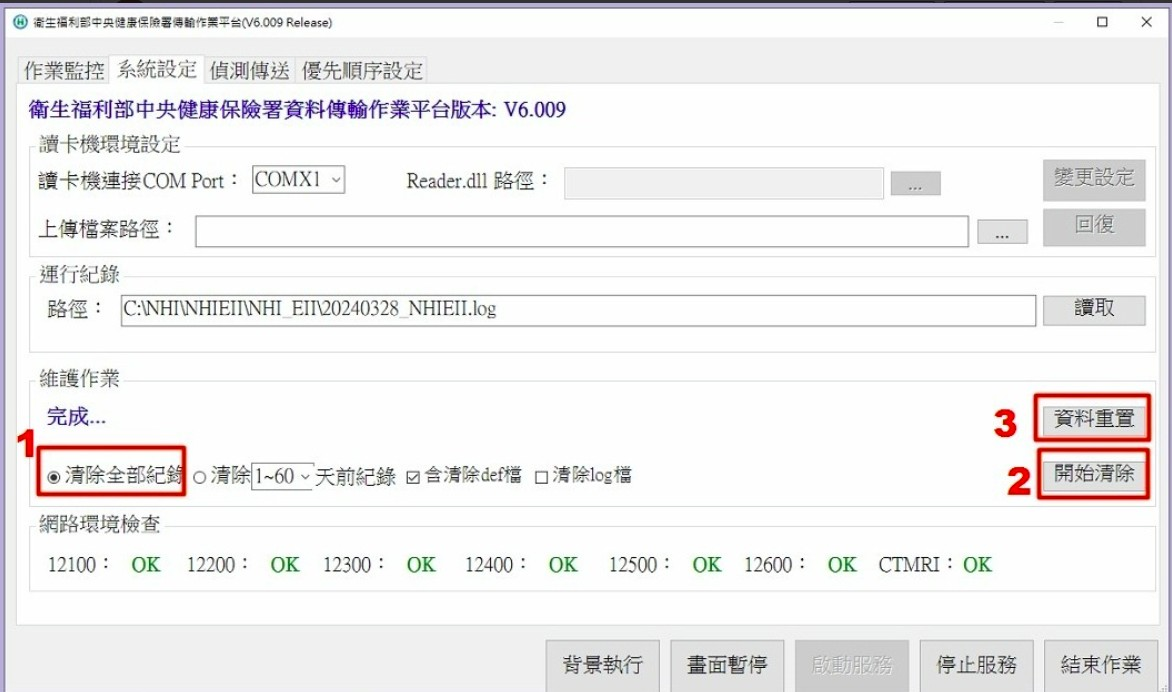
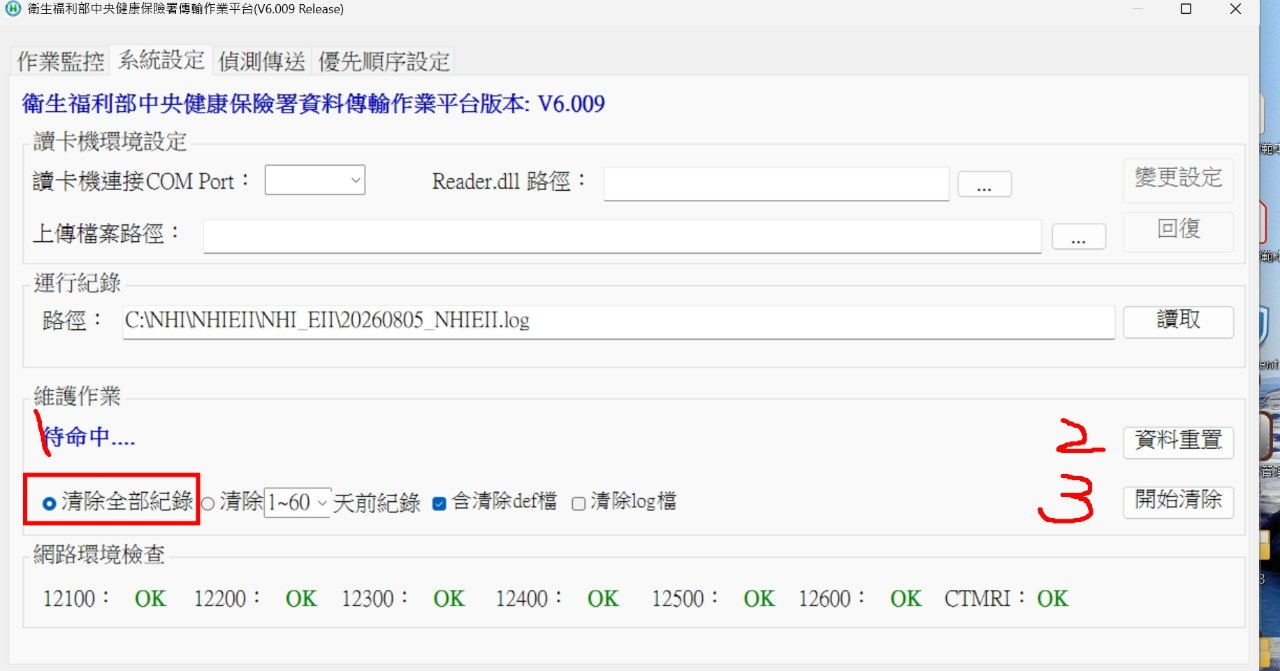
更新共同傳輸平台清除操作圖與重開步驟

diff --git a/faq.js b/faq.js
@@ -74,7 +74,7 @@ const FAQS=[
 {id:'vpn-queue',group:'nhi',title:'申報、抽審上傳後 VPN 一直查不到結果',tags:'申報 抽審 上傳 查不到 排隊 很久',text:'健保署有時資料量太大會排隊處理。請不要重傳，等 3～4 小時以上再去查詢結果。',doc:'nhi-review'},
 {"id":"e300","group":"nhi","title":"申覆出現 E300","tags":"e300 申覆 費用年月 申報日期 申覆 申複 申復","text":"【費用年月】或【申報日期】填錯了，確認後重新上傳。例如 11503 的費用，申報上傳日期應該是 11504XX。","doc":"nhi-appeal"},
 {"id":"e465","group":"nhi","title":"上傳出現 E465","tags":"e465 上傳 附件 桌面 資料夾 申覆上傳顯示壓縮檔或檢核錯誤怎麼辦？ 申覆上傳顯示壓縮檔或檢核錯誤怎麼辦 申覆 申複 申復","text":"把要上傳的檔案先移到桌面（不要放在資料夾裡），直接從桌面重新選擇檔案再上傳一次。 申覆上傳顯示壓縮檔或檢核錯誤怎麼辦？ 可將既有申覆檔案放到桌面，直接選取檔案後重試；仍失敗請核對實際錯誤代碼，交由客服確認。不要解壓或重製內容來猜測修復。","doc":"edge-ie-mode"},
-{"id":"clear-eii","group":"nhi","title":"共通傳輸平台（小綠人）空間不足","tags":"小綠人 共通傳輸平台 共同傳輸平台 空間不足 資料滿 清除全部紀錄 資料重置 vpn上傳失敗","doc":"nhi-appeal","steps":["開啟共通傳輸平台，切到【系統設定】分頁。","在【維護作業】選【清除全部紀錄】，確認已勾選【含清除def檔】，再按【開始清除】。","清除完成後，每次都要再按【資料重置】。","關閉程式重新開啟，再重新上傳。"],"img":"eii-cleanup"},
+{"id":"clear-eii","group":"nhi","title":"共通傳輸平台（小綠人）空間不足","tags":"小綠人 共通傳輸平台 共同傳輸平台 空間不足 資料滿 清除全部紀錄 資料重置 vpn上傳失敗 清除共同傳輸平台 清除共通傳輸平台 清除失敗 清除時跳出錯誤 開始清除","doc":"nhi-appeal","steps":["開啟共通傳輸平台（共同傳輸平台／小綠人），切到【系統設定】分頁。","在【維護作業】選【清除全部紀錄】，並勾選【含清除def檔】。","依圖先按【資料重置】，再按【開始清除】。","若清除過程跳出錯誤，請先重新開機，再清除一次。","清除完成後，請關閉共同傳輸平台，再重新開啟。"],"img":"eii-cleanup"},
 {id:'088',group:'nhi',title:'088 只能申報三顆牙位',tags:'088 牙位 三顆',text:'088 只能申報三顆，第四顆以上請備註在病歷內容裡。'},
 {id:'code-b',group:'nhi',title:'處置代碼結尾 B 不能申報',tags:'結尾b 結尾c 處置',text:'診所只能申報結尾 C 的處置；結尾 B 需要另外向健保署申請通過才能使用。'},
 {id:'referral',group:'nhi',title:'轉診加成怎麼申報',tags:'轉診 加成 轉入院所 專科',steps:['確認診所有申請轉診加成的資格','醫師符合專科資格的話，到樂易智把專科開啟','病歷右上方填寫【轉入院所】資料後書寫病歷','系統會自動判斷加成成數，申報時不需輸入特別代碼']},
